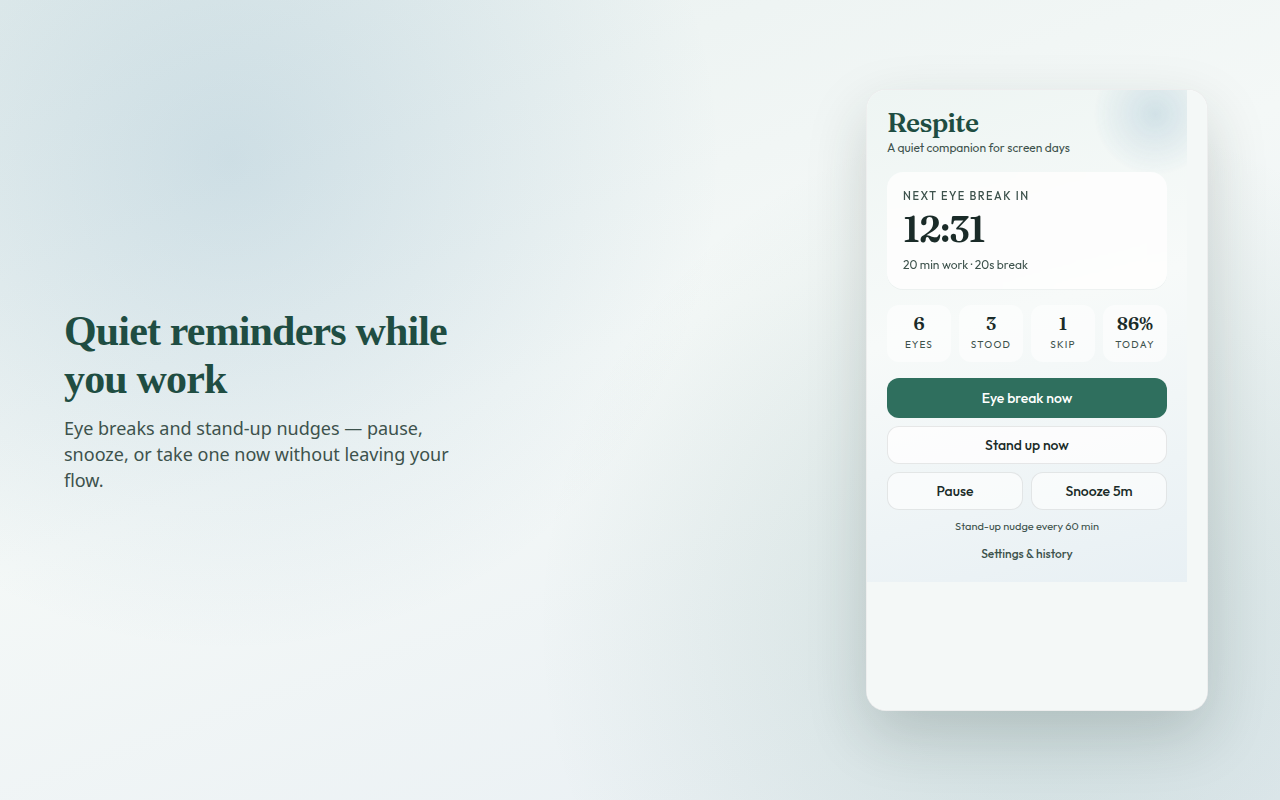
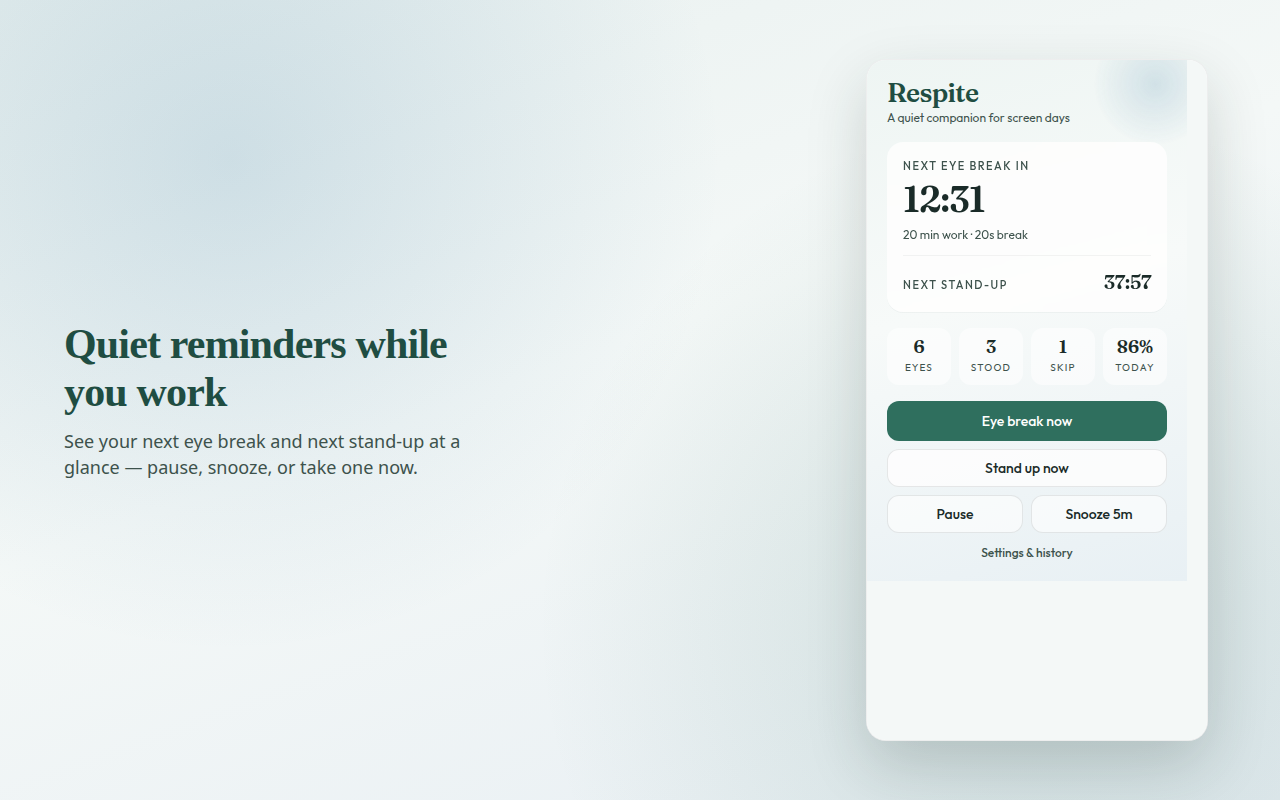
Refresh CWS screenshots and listing copy for v0.1.3
Capture popup with next stand-up countdown, settings hint for 1-minute
intervals, and updated store listing text for the Chrome Web Store upload.

diff --git a/store/LISTING.md b/store/LISTING.md
@@ -28,15 +28,15 @@ Manifest version must be **0.1.3** (larger than published **0.1.2** / **0.1.1**)
 | Item | Action |
 |---|---|
 | Package | Upload new zip (**0.1.3**) |
-| Short description | Update (stand-up mentioned) |
+| Short description | Replace with copy below |
 | Detailed description | Replace with copy below |
-| Screenshots | Keep 1–3; **add stand-up screenshot** if possible |
+| Screenshots | **Replace all 4** with files in `store/screenshots/` |
 | Icon / promo tiles | No change required |
 | Privacy policy URL | Same URL (still valid) |
-| Single purpose | Update wording slightly (below) |
-| Permission justifications | Update `notifications` + `tabs` lines (below) |
+| Single purpose | Replace with copy below |
+| Permission justifications | Keep as below (same as 0.1.2) |
 | Data usage | Still leave all collection boxes **unchecked**; certify all 3 |
-| Test instructions | Update (below) |
+| Test instructions | Replace with copy below |
 
 ---
 
@@ -49,7 +49,7 @@ Respite — Eye Care for Developers
 ### Summary (short description)
 
 ```
-Gentle 20-20-20 eye breaks + optional stand-up nudges. Idle-aware, local-only. Wellness tool — not medical.
+20-20-20 eye breaks + stand-up nudges with live countdowns. Idle-aware, local-only. Not medical.
 ```
 
 ### Description (detailed)
@@ -59,13 +59,13 @@ Protect your eyes — and take a stand — while you code.
 
 Respite is a free, open-source Chrome extension for developers and other heavy computer users. It gently reminds you to follow the 20-20-20 rule: every 20 minutes, look about 20 feet (6 metres) away for 20 seconds.
 
-You can also enable stand-up nudges (for example every 30 or 60 minutes) so long sitting days get a short stretch reset.
+Optional stand-up nudges run on their own timer (from 1 minute up — try 30 or 60 for daily use) so long sitting days get a short stretch reset. The popup shows both the next eye break and the next stand-up at a glance.
 
 Built for people who forget breaks mid-debug, mid-PR, or mid-deadline.
 
 WHAT YOU GET
 • Configurable eye-break interval and length (defaults to 20 min / 20 sec)
-• Optional stand-up nudges (defaults to every 60 minutes)
+• Optional stand-up nudges with a live “next stand-up” countdown
 • Quiet notifications and calming full-tab eye-break / stand screens
 • Idle awareness — pauses when you step away
 • Snooze, pause, skip, or take a break / stand now
@@ -96,7 +96,7 @@ All screenshots are **1280×800** PNG.
 
 | Order | File | Shows |
 |---|---|---|
-| 1 | `store/screenshots/01-popup-1280x800.png` | Popup with eye break + stand up |
+| 1 | `store/screenshots/01-popup-1280x800.png` | Popup with next eye break + next stand-up |
 | 2 | `store/screenshots/02-break-1280x800.png` | Eye-break screen |
 | 3 | `store/screenshots/03-stand-1280x800.png` | Stand-up screen |
 | 4 | `store/screenshots/04-settings-1280x800.png` | Settings with stand-up nudges |
@@ -144,10 +144,10 @@ Privacy policy: https://danish-ali-malik.github.io/respite/privacy.html
 
 ```
 1. Install the extension and allow notifications if prompted.
-2. Open the popup — eye-break timer should be running (default 20 minutes).
+2. Open the popup — next eye-break countdown should be running; with stand-up enabled, “Next stand-up” also appears.
 3. Click “Eye break now” — a break tab opens with a countdown, then returns to the previous work tab.
 4. Click “Stand up now” — a stand/stretch tab opens, then returns to the previous work tab.
-5. Open Settings — enable Stand-up nudges, set interval to 1 minute temporarily, confirm it saves.
+5. Open Settings — enable Stand-up nudges, set interval to 1 minute, confirm it saves and the popup countdown resets.
 6. Wait for the stand-up notification/screen; snooze or skip works.
 7. Leave the machine idle for a few minutes — timers pause/reset per idle settings.
 8. Confirm no network requests from the extension (local storage only).
